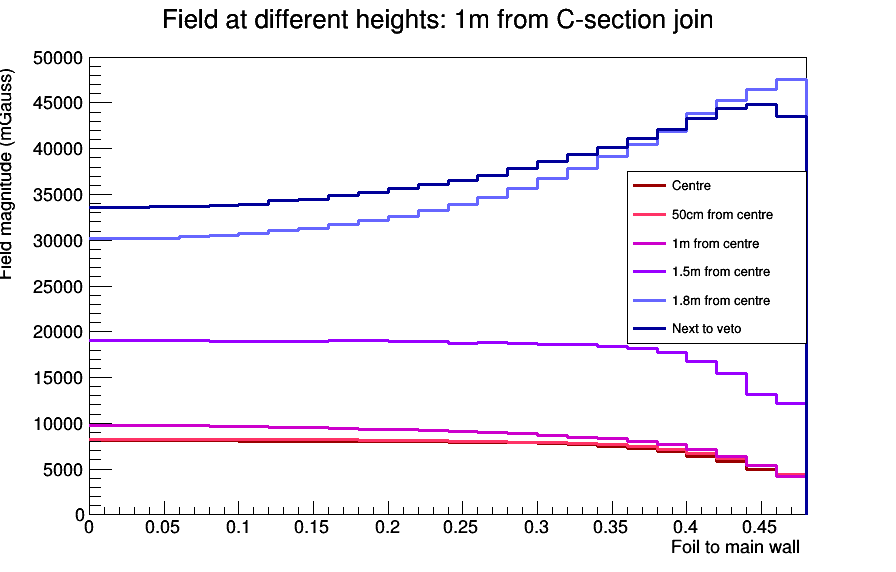
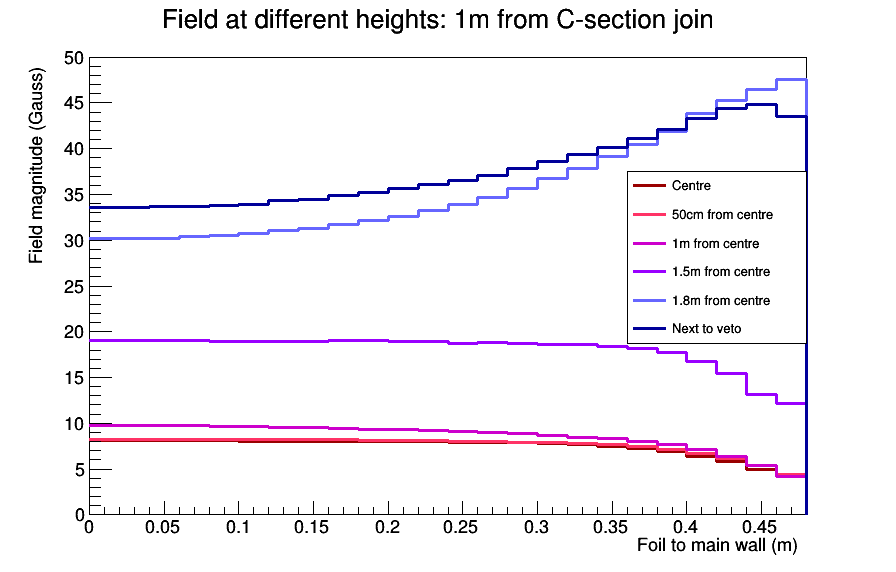
Map has good scale and color

diff --git a/parseFieldMap.cpp b/parseFieldMap.cpp
@@ -4,9 +4,9 @@ string GetBitBeforeComma(string& input);
 TH1D *MakeFieldProjection(TH3D *plot3d, int ybin, int zbin, string title, int color);
 void MakePlotSet(TH3D *totalfield, int ybin, string text);
 
-string xtitle="Centre to xwall";
-string ytitle="Along wires to vetos";
-string ztitle="Foil to main wall";
+string xtitle="C-section join to xwall (m)";
+string ytitle="Vertical - centre to veto (m)";
+string ztitle="Foil to main wall (m)";
 
 
 void parseFieldMap()
@@ -133,9 +133,10 @@ string GetBitBeforeComma(string& input)
 TH1D *MakeFieldProjection(TH3D *plot3d, int ybin, int zbin, string title, int color)
 {
   TH1D *plot= plot3d->ProjectionZ(title.c_str(),ybin,ybin,zbin,zbin);
-  plot->GetYaxis()->SetRangeUser(0,50000);
+  plot->Scale(0.001); // mGauss to Gauss
+  plot->GetYaxis()->SetRangeUser(0,50);
   plot->GetXaxis()->SetTitle(ztitle.c_str());
-  plot->GetYaxis()->SetTitle("Field magnitude (mGauss)");
+  plot->GetYaxis()->SetTitle("Field magnitude (Gauss)");
   plot->SetTitle(title.c_str());
   plot->SetLineColor(color);
   plot->SetLineWidth(3);
@@ -198,8 +199,11 @@ void MakePlotSet(TH3D *totalfield, int ybin, string text)
   TH3D *temp3d = (TH3D*)totalfield->Clone();
   temp3d->GetXaxis()->SetRange(ybin,ybin);
   TH2D *plot2d = (TH2D*)temp3d->Project3D("yz");
+  plot2d->SetTitle(("Field (G) at "+text).c_str());
   plot2d->Scale(1./1000);
-  plot2d->GetZaxis()->SetRangeUser(0,40);
+  plot2d->GetZaxis()->SetRangeUser(0,50);
+  plot2d->GetXaxis()->SetTitle(ztitle.c_str());
+  plot2d->GetYaxis()->SetTitle(ytitle.c_str());
   //c2->SetLogz();
   gStyle->SetPalette(kSunset);
   plot2d->Draw("COLZ");
